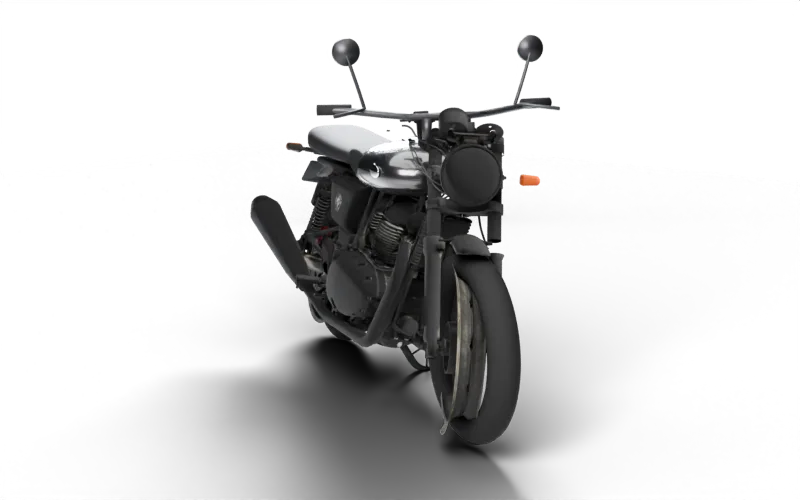
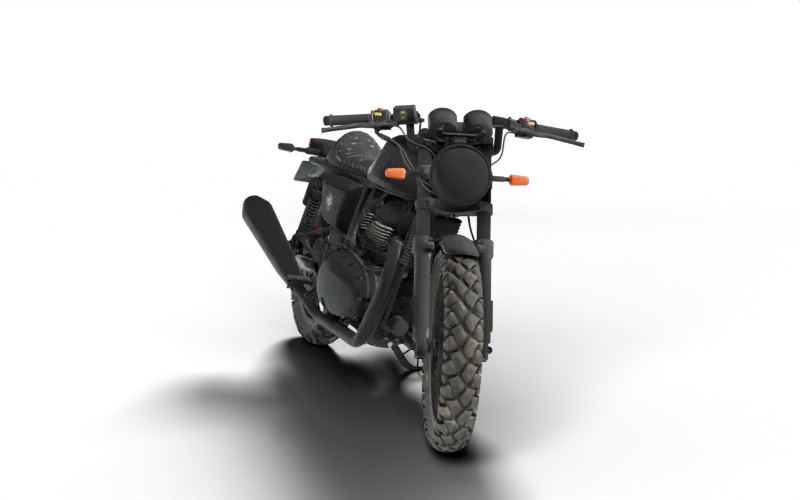
Use the stock Continental GT 650 for the bike renders
Dropped the Interceptor conversion: the hero sprite and the turntable
now show the GT as it came, with the rider tucked into its café-racer
riding position. The caption says the model is the Interceptor's
café-racer twin rather than claiming it is Roni's bike.

Changed region(s): [[0.1875, 0.06, 0.75, 1.0], [0.625, 0.06, 0.6875, 0.15]]

diff --git a/index.html b/index.html
@@ -412,7 +412,7 @@
     <div class="off-grid">
       <article class="panel moto">
         <div class="play">
-          <div class="spin" id="spin" tabindex="0" role="img" aria-label="3D model of my Royal Enfield Interceptor 650 in Black Ray, modelled and rendered in Blender. Drag or use the arrow keys to turn it.">
+          <div class="spin" id="spin" tabindex="0" role="img" aria-label="3D model of a Royal Enfield Continental GT 650, the Interceptor’s café-racer twin. Drag or use the arrow keys to turn it.">
             <img src="assets/interceptor/spin-00.webp" alt="" width="800" height="500" loading="lazy" decoding="async" draggable="false">
             <span class="hint" aria-hidden="true">Drag to see it from every side</span>
           </div>
@@ -431,7 +431,7 @@
           </div>
         </div>
         <h3>Royal Enfield Interceptor 650</h3>
-        <p>Mine’s the Black Ray. Most of my travelling happens on it: a 648 cc parallel twin and whatever road the hills offer. The one above is a 3D model, built in Blender for this site. Drag it to see all 360°.
+        <p>Mine’s the Black Ray. Most of my travelling happens on it: a 648 cc parallel twin and whatever road the hills offer. The model above is its café-racer twin, the Continental GT 650: same 648 cc engine, frame and wheels. Drag it to see all 360°.
       </article>
       <article class="panel fball">
         <div class="play pitch" id="pitch">

diff --git a/README.md b/README.md
@@ -31,21 +31,21 @@ resume/             resume source (resume.html), local IBM Plex fonts, build scr
 
 `js/main.js` computes the sun's altitude over Itanagar with the NOAA solar equations and colours the sky, hills, sun, moon and stars from it every 30 seconds. Weather comes from Open-Meteo (free, no key, called from the visitor's browser every 15 minutes); if that request fails the sky still works and the weather text is simply left out.
 
-## The Interceptor model
+## The bike model
 
-The renders in `assets/interceptor/` (hero rider sprite and the 24-frame turntable) come from a Continental GT 650 model that was converted into an Interceptor in Blender: the GT's clip-on bars, café seat, tank and knobbly tyres were removed and replaced with an Interceptor tank, long bench seat, braced roadster bar with round mirrors, and road tyres. The converted scene is `blender/ic_from_gt.blend`, which is gitignored and never published because the base mesh is third-party.
+The renders in `assets/interceptor/` (hero rider sprite and the 24-frame turntable) are of a stock Royal Enfield Continental GT 650, the Interceptor's café-racer twin, with a simple rider added for the hero. The page says so in the Off the clock caption. The scene is `blender/gt_stock.blend`, which is gitignored and never published because the bike mesh is third-party. (`blender/ic_from_gt.blend` is an abandoned attempt to convert it into an Interceptor.)
 
 Re-render from it with:
 
 ```sh
 B=/Applications/Blender.app/Contents/MacOS/Blender
-$B --background blender/ic_from_gt.blend --python blender/render_gt_assets.py -- side assets/interceptor/rider.webp 440
-$B --background blender/ic_from_gt.blend --python blender/render_gt_assets.py -- spin assets/interceptor 24
+$B --background blender/gt_stock.blend --python blender/render_gt_assets.py -- side assets/interceptor/rider.webp 440
+$B --background blender/gt_stock.blend --python blender/render_gt_assets.py -- spin assets/interceptor 24
 ```
 
 The side render frames exactly 2.2 m × 1.8 m with the ground at the bottom edge, which is what the hero's `<image>` and headlamp beam coordinates assume. EEVEE renders black in headless sessions here, so the script uses Cycles on the CPU.
 
-`blender/interceptor.py` is the earlier model built entirely from primitives (profiles traced from CC BY-SA photos on Wikimedia Commons by Auge=mit). It is kept as a fallback and no longer used for the site assets.
+`blender/interceptor.py` is an earlier Interceptor built entirely from primitives (profiles traced from CC BY-SA photos on Wikimedia Commons by Auge=mit), kept as a fallback.
 
 ## Resume PDF
 
